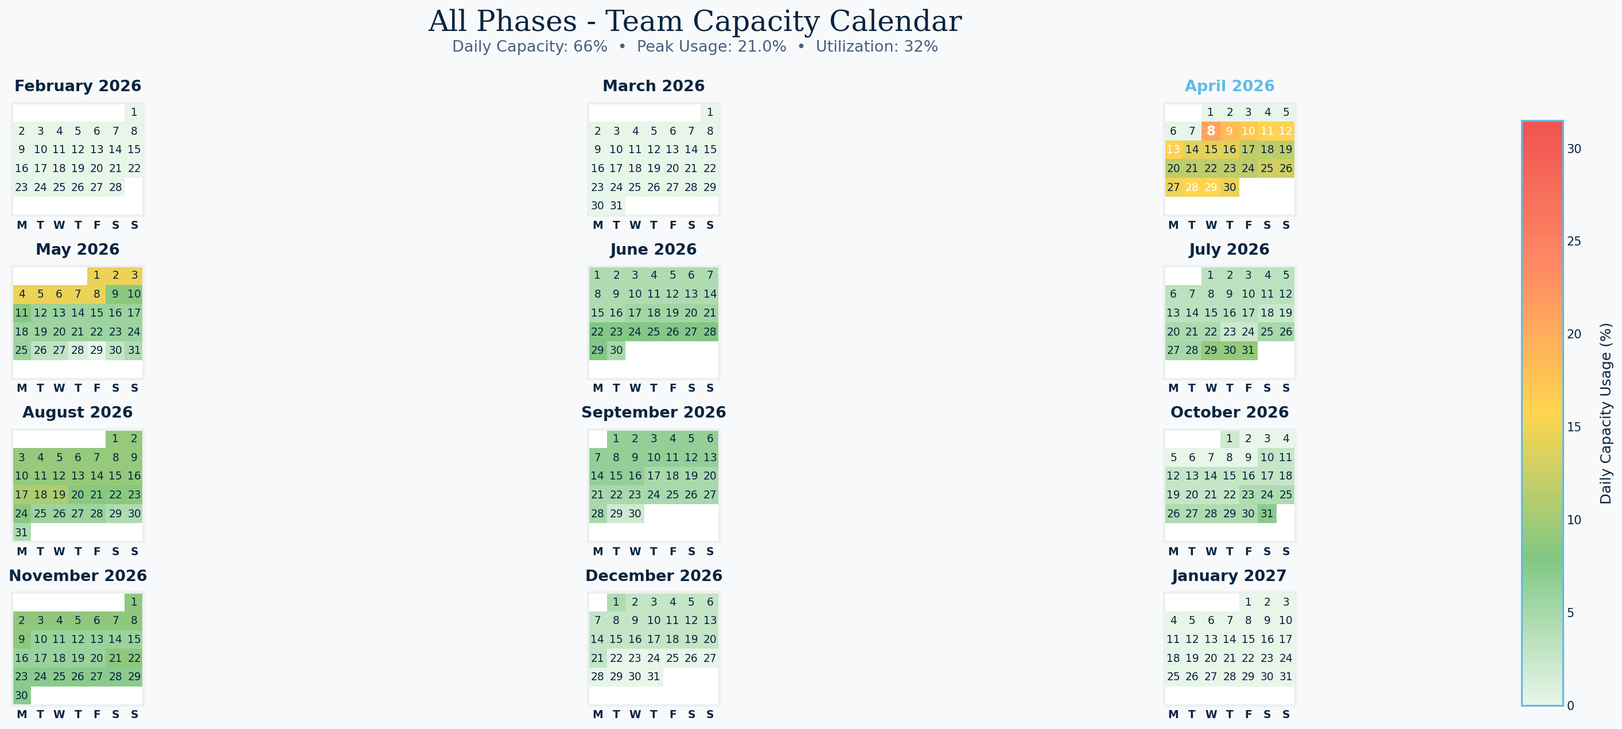
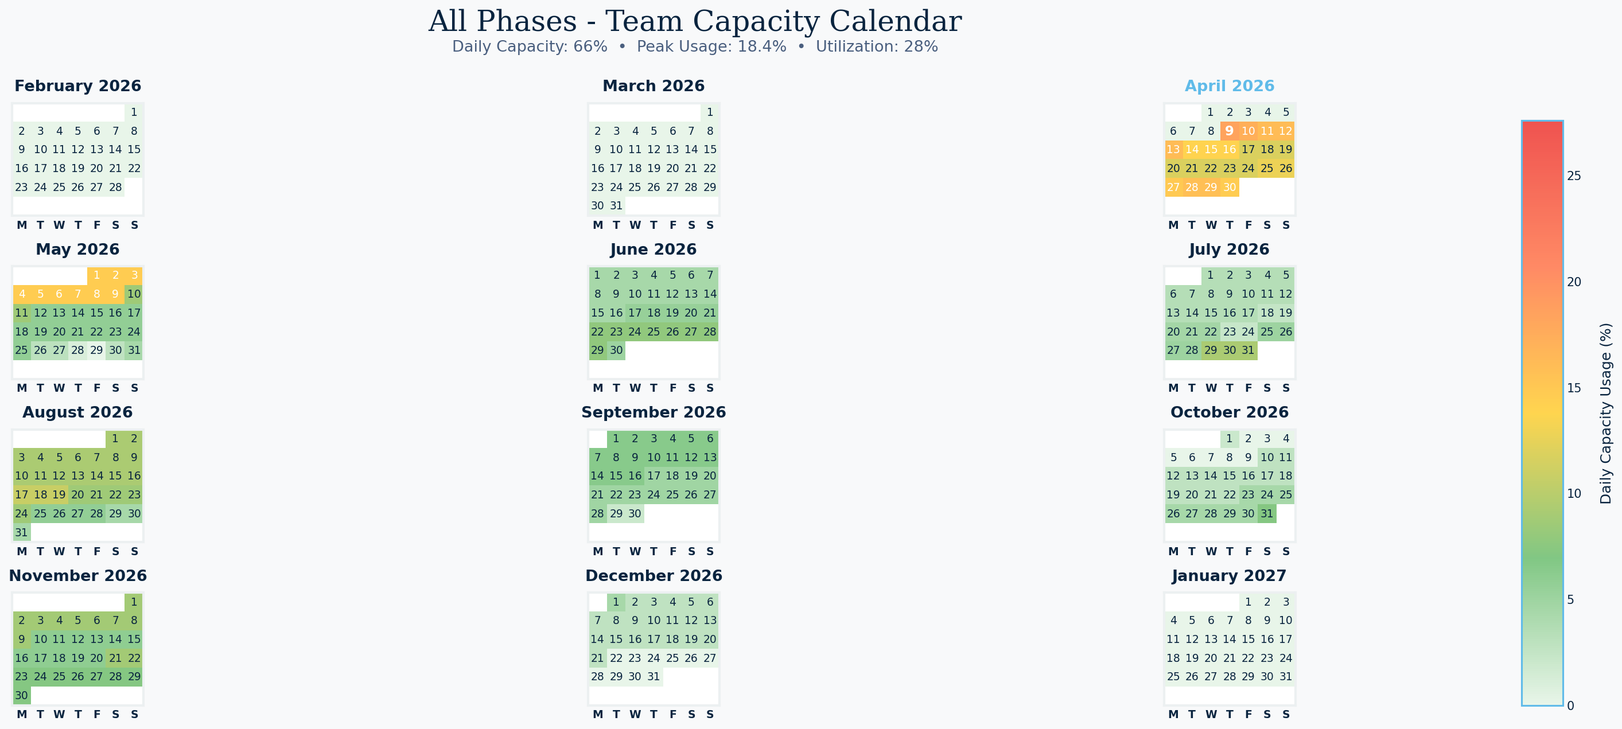
Update dashboard with latest data
🤖 Generated with [Claude Code](https://claude.com/claude-code)

Changed region(s): [[0.716, 0.1534, 0.8093, 0.2455], [0.0, 0.6444, 0.0623, 0.7057], [0.0623, 0.3682, 0.0934, 0.4296]]

diff --git a/Reports/capacity_dashboard.html b/Reports/capacity_dashboard.html
@@ -2449,7 +2449,7 @@
                 <div class="header-text">
                     <h1 id="dashboard-title">Perimeter Studio Dashboard</h1>
                     <p class="subtitle">Video Production Capacity Tracking & Performance Metrics</p>
-                    <p class="timestamp" aria-live="polite" aria-label="Dashboard last updated">Last Updated: April 08, 2026 at 11:45 PM</p>
+                    <p class="timestamp" aria-live="polite" aria-label="Dashboard last updated">Last Updated: April 09, 2026 at 12:00 AM</p>
                 </div>
                 <button class="theme-toggle" onclick="toggleTheme()" aria-label="Toggle dark/light mode" aria-describedby="theme-description">
                     <span id="themeText">Dark Mode</span>
@@ -2591,7 +2591,7 @@
                         Post Production | Adriel Abella | Due: 2026-04-06
                     </div>
                     <div class="task-risk">
-                        • Overdue by 2 days
+                        • Overdue by 3 days
                     </div>
                 </div>
             
@@ -2601,7 +2601,7 @@
                         Post Production | Adriel Abella | Due: 2026-04-08
                     </div>
                     <div class="task-risk">
-                        • Due in 0 days, not yet in progress
+                        • Overdue by 1 days
                     </div>
                 </div>
             
@@ -2611,7 +2611,7 @@
                         Post Production | Zach Welliver | Due: 2026-04-03
                     </div>
                     <div class="task-risk">
-                        • Overdue by 5 days
+                        • Overdue by 6 days
                     </div>
                 </div>
             
@@ -3054,115 +3054,117 @@
                 
                     <div style="flex: 4; text-align: center; border-right: 1px solid #dee2e6;">Aug</div>
                 
-                    <div style="flex: 5; text-align: center;">Sep</div>
+                    <div style="flex: 4; text-align: center; border-right: 1px solid #dee2e6;">Sep</div>
+                
+                    <div style="flex: 1; text-align: center;">Oct</div>
         
                 </div>
 
                 <!-- Timeline bars -->
                 <div style="display: flex; gap: 3px; height: 60px; align-items: flex-end;">
     
-                    <div style="flex: 1; background: #fd7e14; height: 33.37229437229437%; border-radius: 4px 4px 0 0; position: relative; min-width: 8px; cursor: pointer;"
-                         title="Week 1 (2026-04-08): 26% capacity, 16 tasks">
+                    <div style="flex: 1; background: #fd7e14; height: 31.402597402597404%; border-radius: 4px 4px 0 0; position: relative; min-width: 8px; cursor: pointer;"
+                         title="Week 1 (2026-04-09): 24% capacity, 15 tasks">
                     </div>
         
-                    <div style="flex: 1; background: #ffc107; height: 24.480519480519483%; border-radius: 4px 4px 0 0; position: relative; min-width: 8px; cursor: pointer;"
-                         title="Week 2 (2026-04-15): 19% capacity, 11 tasks">
+                    <div style="flex: 1; background: #ffc107; height: 23.861471861471866%; border-radius: 4px 4px 0 0; position: relative; min-width: 8px; cursor: pointer;"
+                         title="Week 2 (2026-04-16): 18% capacity, 11 tasks">
                     </div>
         
-                    <div style="flex: 1; background: #ffc107; height: 25.774891774891774%; border-radius: 4px 4px 0 0; position: relative; min-width: 8px; cursor: pointer;"
-                         title="Week 3 (2026-04-22): 20% capacity, 12 tasks">
+                    <div style="flex: 1; background: #ffc107; height: 26.9004329004329%; border-radius: 4px 4px 0 0; position: relative; min-width: 8px; cursor: pointer;"
+                         title="Week 3 (2026-04-23): 21% capacity, 12 tasks">
                     </div>
         
-                    <div style="flex: 1; background: #ffc107; height: 29.095238095238095%; border-radius: 4px 4px 0 0; position: relative; min-width: 8px; cursor: pointer;"
-                         title="Week 4 (2026-04-29): 22% capacity, 11 tasks">
+                    <div style="flex: 1; background: #fd7e14; height: 28.757575757575758%; border-radius: 4px 4px 0 0; position: relative; min-width: 8px; cursor: pointer;"
+                         title="Week 4 (2026-04-30): 22% capacity, 10 tasks">
                     </div>
         
-                    <div style="flex: 1; background: #ffc107; height: 21.21645021645022%; border-radius: 4px 4px 0 0; position: relative; min-width: 8px; cursor: pointer;"
-                         title="Week 5 (2026-05-06): 16% capacity, 10 tasks">
+                    <div style="flex: 1; background: #ffc107; height: 20.428571428571427%; border-radius: 4px 4px 0 0; position: relative; min-width: 8px; cursor: pointer;"
+                         title="Week 5 (2026-05-07): 16% capacity, 10 tasks">
                     </div>
         
                     <div style="flex: 1; background: #28a745; height: 11.424242424242426%; border-radius: 4px 4px 0 0; position: relative; min-width: 8px; cursor: pointer;"
-                         title="Week 6 (2026-05-13): 9% capacity, 3 tasks">
+                         title="Week 6 (2026-05-14): 9% capacity, 3 tasks">
                     </div>
         
-                    <div style="flex: 1; background: #28a745; height: 10.636363636363638%; border-radius: 4px 4px 0 0; position: relative; min-width: 8px; cursor: pointer;"
-                         title="Week 7 (2026-05-20): 8% capacity, 3 tasks">
+                    <div style="flex: 1; background: #28a745; height: 9.848484848484851%; border-radius: 4px 4px 0 0; position: relative; min-width: 8px; cursor: pointer;"
+                         title="Week 7 (2026-05-21): 8% capacity, 3 tasks">
                     </div>
         
-                    <div style="flex: 1; background: #28a745; height: 5.627705627705628%; border-radius: 4px 4px 0 0; position: relative; min-width: 8px; cursor: pointer;"
-                         title="Week 8 (2026-05-27): 4% capacity, 4 tasks">
-                    </div>
-        
-                    <div style="flex: 1; background: #28a745; height: 8.666666666666668%; border-radius: 4px 4px 0 0; position: relative; min-width: 8px; cursor: pointer;"
-                         title="Week 9 (2026-06-03): 7% capacity, 2 tasks">
+                    <div style="flex: 1; background: #28a745; height: 6.021645021645023%; border-radius: 4px 4px 0 0; position: relative; min-width: 8px; cursor: pointer;"
+                         title="Week 8 (2026-05-28): 5% capacity, 3 tasks">
                     </div>
         
                     <div style="flex: 1; background: #28a745; height: 8.666666666666668%; border-radius: 4px 4px 0 0; position: relative; min-width: 8px; cursor: pointer;"
-                         title="Week 10 (2026-06-10): 7% capacity, 2 tasks">
+                         title="Week 9 (2026-06-04): 7% capacity, 2 tasks">
                     </div>
         
-                    <div style="flex: 1; background: #28a745; height: 11.987012987012987%; border-radius: 4px 4px 0 0; position: relative; min-width: 8px; cursor: pointer;"
-                         title="Week 11 (2026-06-17): 9% capacity, 4 tasks">
+                    <div style="flex: 1; background: #28a745; height: 8.94805194805195%; border-radius: 4px 4px 0 0; position: relative; min-width: 8px; cursor: pointer;"
+                         title="Week 10 (2026-06-11): 7% capacity, 3 tasks">
                     </div>
         
-                    <div style="flex: 1; background: #28a745; height: 14.57575757575758%; border-radius: 4px 4px 0 0; position: relative; min-width: 8px; cursor: pointer;"
-                         title="Week 12 (2026-06-24): 11% capacity, 4 tasks">
+                    <div style="flex: 1; background: #28a745; height: 12.662337662337665%; border-radius: 4px 4px 0 0; position: relative; min-width: 8px; cursor: pointer;"
+                         title="Week 11 (2026-06-18): 10% capacity, 4 tasks">
+                    </div>
+        
+                    <div style="flex: 1; background: #28a745; height: 13.337662337662339%; border-radius: 4px 4px 0 0; position: relative; min-width: 8px; cursor: pointer;"
+                         title="Week 12 (2026-06-25): 10% capacity, 4 tasks">
                     </div>
         
                     <div style="flex: 1; background: #28a745; height: 6.696969696969697%; border-radius: 4px 4px 0 0; position: relative; min-width: 8px; cursor: pointer;"
-                         title="Week 13 (2026-07-01): 5% capacity, 2 tasks">
+                         title="Week 13 (2026-07-02): 5% capacity, 2 tasks">
                     </div>
         
                     <div style="flex: 1; background: #28a745; height: 6.696969696969697%; border-radius: 4px 4px 0 0; position: relative; min-width: 8px; cursor: pointer;"
-                         title="Week 14 (2026-07-08): 5% capacity, 2 tasks">
+                         title="Week 14 (2026-07-09): 5% capacity, 2 tasks">
                     </div>
         
-                    <div style="flex: 1; background: #28a745; height: 6.80952380952381%; border-radius: 4px 4px 0 0; position: relative; min-width: 8px; cursor: pointer;"
-                         title="Week 15 (2026-07-15): 5% capacity, 3 tasks">
+                    <div style="flex: 1; background: #28a745; height: 7.147186147186147%; border-radius: 4px 4px 0 0; position: relative; min-width: 8px; cursor: pointer;"
+                         title="Week 15 (2026-07-16): 5% capacity, 3 tasks">
                     </div>
         
-                    <div style="flex: 1; background: #28a745; height: 8.16017316017316%; border-radius: 4px 4px 0 0; position: relative; min-width: 8px; cursor: pointer;"
-                         title="Week 16 (2026-07-22): 6% capacity, 3 tasks">
-                    </div>
-        
-                    <div style="flex: 1; background: #ffc107; height: 18.121212121212125%; border-radius: 4px 4px 0 0; position: relative; min-width: 8px; cursor: pointer;"
-                         title="Week 17 (2026-07-29): 14% capacity, 3 tasks">
+                    <div style="flex: 1; background: #28a745; height: 9.454545454545455%; border-radius: 4px 4px 0 0; position: relative; min-width: 8px; cursor: pointer;"
+                         title="Week 16 (2026-07-23): 7% capacity, 3 tasks">
                     </div>
         
                     <div style="flex: 1; background: #ffc107; height: 18.121212121212125%; border-radius: 4px 4px 0 0; position: relative; min-width: 8px; cursor: pointer;"
-                         title="Week 18 (2026-08-05): 14% capacity, 3 tasks">
+                         title="Week 17 (2026-07-30): 14% capacity, 3 tasks">
                     </div>
         
-                    <div style="flex: 1; background: #ffc107; height: 19.021645021645025%; border-radius: 4px 4px 0 0; position: relative; min-width: 8px; cursor: pointer;"
-                         title="Week 19 (2026-08-12): 15% capacity, 4 tasks">
+                    <div style="flex: 1; background: #ffc107; height: 18.121212121212125%; border-radius: 4px 4px 0 0; position: relative; min-width: 8px; cursor: pointer;"
+                         title="Week 18 (2026-08-06): 14% capacity, 3 tasks">
                     </div>
         
-                    <div style="flex: 1; background: #28a745; height: 16.770562770562773%; border-radius: 4px 4px 0 0; position: relative; min-width: 8px; cursor: pointer;"
-                         title="Week 20 (2026-08-19): 13% capacity, 4 tasks">
+                    <div style="flex: 1; background: #ffc107; height: 19.471861471861477%; border-radius: 4px 4px 0 0; position: relative; min-width: 8px; cursor: pointer;"
+                         title="Week 19 (2026-08-13): 15% capacity, 4 tasks">
                     </div>
         
-                    <div style="flex: 1; background: #28a745; height: 10.41125541125541%; border-radius: 4px 4px 0 0; position: relative; min-width: 8px; cursor: pointer;"
-                         title="Week 21 (2026-08-26): 8% capacity, 4 tasks">
+                    <div style="flex: 1; background: #28a745; height: 15.363636363636369%; border-radius: 4px 4px 0 0; position: relative; min-width: 8px; cursor: pointer;"
+                         title="Week 20 (2026-08-20): 12% capacity, 3 tasks">
+                    </div>
+        
+                    <div style="flex: 1; background: #28a745; height: 10.580086580086581%; border-radius: 4px 4px 0 0; position: relative; min-width: 8px; cursor: pointer;"
+                         title="Week 21 (2026-08-27): 8% capacity, 4 tasks">
                     </div>
         
                     <div style="flex: 1; background: #28a745; height: 12.606060606060607%; border-radius: 4px 4px 0 0; position: relative; min-width: 8px; cursor: pointer;"
-                         title="Week 22 (2026-09-02): 10% capacity, 3 tasks">
+                         title="Week 22 (2026-09-03): 10% capacity, 3 tasks">
                     </div>
         
                     <div style="flex: 1; background: #28a745; height: 12.606060606060607%; border-radius: 4px 4px 0 0; position: relative; min-width: 8px; cursor: pointer;"
-                         title="Week 23 (2026-09-09): 10% capacity, 3 tasks">
+                         title="Week 23 (2026-09-10): 10% capacity, 3 tasks">
                     </div>
         
-                    <div style="flex: 1; background: #28a745; height: 9.904761904761905%; border-radius: 4px 4px 0 0; position: relative; min-width: 8px; cursor: pointer;"
-                         title="Week 24 (2026-09-16): 8% capacity, 3 tasks">
+                    <div style="flex: 1; background: #28a745; height: 9.454545454545455%; border-radius: 4px 4px 0 0; position: relative; min-width: 8px; cursor: pointer;"
+                         title="Week 24 (2026-09-17): 7% capacity, 2 tasks">
                     </div>
         
-                    <div style="flex: 1; background: #28a745; height: 8.666666666666668%; border-radius: 4px 4px 0 0; position: relative; min-width: 8px; cursor: pointer;"
-                         title="Week 25 (2026-09-23): 7% capacity, 2 tasks">
+                    <div style="flex: 1; background: #28a745; height: 7.87878787878788%; border-radius: 4px 4px 0 0; position: relative; min-width: 8px; cursor: pointer;"
+                         title="Week 25 (2026-09-24): 6% capacity, 2 tasks">
                     </div>
         
                     <div style="flex: 1; background: #28a745; height: 5%; border-radius: 4px 4px 0 0; position: relative; min-width: 8px; cursor: pointer;"
-                         title="Week 26 (2026-09-30): 1% capacity, 1 tasks">
+                         title="Week 26 (2026-10-01): 0% capacity, 1 tasks">
                     </div>
         
                 </div>
@@ -3245,17 +3247,12 @@
             </div>
             <div class="heatmap-grid">
     
-                <div style="background: #fd7e14; color: white; padding: 8px; border-radius: 4px; text-align: center; font-size: 11px;" title="2026-04-08: 31.8% capacity">
-                    <div style="font-weight: bold;">04/08</div>
-                    <div style="font-size: 9px; margin-top: 2px;">32%</div>
-                </div>
-        
-                <div style="background: #ffc107; color: white; padding: 8px; border-radius: 4px; text-align: center; font-size: 11px;" title="2026-04-09: 27.9% capacity">
+                <div style="background: #fd7e14; color: white; padding: 8px; border-radius: 4px; text-align: center; font-size: 11px;" title="2026-04-09: 27.9% capacity">
                     <div style="font-weight: bold;">04/09</div>
                     <div style="font-size: 9px; margin-top: 2px;">28%</div>
                 </div>
         
-                <div style="background: #ffc107; color: white; padding: 8px; border-radius: 4px; text-align: center; font-size: 11px;" title="2026-04-10: 26.1% capacity">
+                <div style="background: #fd7e14; color: white; padding: 8px; border-radius: 4px; text-align: center; font-size: 11px;" title="2026-04-10: 26.1% capacity">
                     <div style="font-weight: bold;">04/10</div>
                     <div style="font-size: 9px; margin-top: 2px;">26%</div>
                 </div>
@@ -3392,6 +3389,11 @@
         
                 <div style="background: #ffc107; color: white; padding: 8px; border-radius: 4px; text-align: center; font-size: 11px;" title="2026-05-07: 22.1% capacity">
                     <div style="font-weight: bold;">05/07</div>
+                    <div style="font-size: 9px; margin-top: 2px;">22%</div>
+                </div>
+        
+                <div style="background: #ffc107; color: white; padding: 8px; border-radius: 4px; text-align: center; font-size: 11px;" title="2026-05-08: 22.1% capacity">
+                    <div style="font-weight: bold;">05/08</div>
                     <div style="font-size: 9px; margin-top: 2px;">22%</div>
                 </div>
         
@@ -4352,7 +4354,7 @@ Dec 1...
                 const historyCtx = chartElement.getContext('2d');
                 console.log('Canvas context obtained:', !!historyCtx);
 
-                const capacityHistoryByMember = {"Zach Welliver": [{"date": "2026-03-09", "utilization_percent": 101.0}, {"date": "2026-03-10", "utilization_percent": 101.0}, {"date": "2026-03-11", "utilization_percent": 93.0}, {"date": "2026-03-12", "utilization_percent": 80.0}, {"date": "2026-03-13", "utilization_percent": 80.0}, {"date": "2026-03-14", "utilization_percent": 80.0}, {"date": "2026-03-15", "utilization_percent": 80.0}, {"date": "2026-03-16", "utilization_percent": 68.0}, {"date": "2026-03-17", "utilization_percent": 77.0}, {"date": "2026-03-18", "utilization_percent": 57.0}, {"date": "2026-03-19", "utilization_percent": 57.0}, {"date": "2026-03-20", "utilization_percent": 57.0}, {"date": "2026-03-21", "utilization_percent": 57.0}, {"date": "2026-03-22", "utilization_percent": 57.0}, {"date": "2026-03-23", "utilization_percent": 57.0}, {"date": "2026-03-24", "utilization_percent": 57.0}, {"date": "2026-03-25", "utilization_percent": 57.0}, {"date": "2026-03-26", "utilization_percent": 57.0}, {"date": "2026-03-27", "utilization_percent": 57.0}, {"date": "2026-03-28", "utilization_percent": 57.0}, {"date": "2026-03-29", "utilization_percent": 57.0}, {"date": "2026-03-30", "utilization_percent": 57.0}, {"date": "2026-03-31", "utilization_percent": 57.0}, {"date": "2026-04-01", "utilization_percent": 72.0}, {"date": "2026-04-02", "utilization_percent": 72.0}, {"date": "2026-04-03", "utilization_percent": 72.0}, {"date": "2026-04-04", "utilization_percent": 72.0}, {"date": "2026-04-05", "utilization_percent": 72.0}, {"date": "2026-04-06", "utilization_percent": 72.0}, {"date": "2026-04-07", "utilization_percent": 57.0}], "Nick Clark": [{"date": "2026-03-09", "utilization_percent": 66.0}, {"date": "2026-03-10", "utilization_percent": 54.0}, {"date": "2026-03-11", "utilization_percent": 43.0}, {"date": "2026-03-12", "utilization_percent": 28.0}, {"date": "2026-03-13", "utilization_percent": 34.0}, {"date": "2026-03-14", "utilization_percent": 34.0}, {"date": "2026-03-15", "utilization_percent": 34.0}, {"date": "2026-03-16", "utilization_percent": 38.0}, {"date": "2026-03-17", "utilization_percent": 28.0}, {"date": "2026-03-18", "utilization_percent": 22.0}, {"date": "2026-03-19", "utilization_percent": 22.0}, {"date": "2026-03-20", "utilization_percent": 28.0}, {"date": "2026-03-21", "utilization_percent": 28.0}, {"date": "2026-03-22", "utilization_percent": 28.0}, {"date": "2026-03-23", "utilization_percent": 17.0}, {"date": "2026-03-24", "utilization_percent": 17.0}, {"date": "2026-03-25", "utilization_percent": 11.0}, {"date": "2026-03-26", "utilization_percent": 11.0}, {"date": "2026-03-27", "utilization_percent": 17.0}, {"date": "2026-03-28", "utilization_percent": 17.0}, {"date": "2026-03-29", "utilization_percent": 17.0}, {"date": "2026-03-30", "utilization_percent": 17.0}, {"date": "2026-03-31", "utilization_percent": 11.0}, {"date": "2026-04-01", "utilization_percent": 29.0}, {"date": "2026-04-02", "utilization_percent": 47.0}, {"date": "2026-04-03", "utilization_percent": 57.0}, {"date": "2026-04-04", "utilization_percent": 57.0}, {"date": "2026-04-05", "utilization_percent": 57.0}, {"date": "2026-04-06", "utilization_percent": 57.0}, {"date": "2026-04-07", "utilization_percent": 38.0}], "Adriel Abella": [{"date": "2026-03-09", "utilization_percent": 203.0}, {"date": "2026-03-10", "utilization_percent": 198.0}, {"date": "2026-03-11", "utilization_percent": 217.0}, {"date": "2026-03-12", "utilization_percent": 234.0}, {"date": "2026-03-13", "utilization_percent": 234.0}, {"date": "2026-03-14", "utilization_percent": 234.0}, {"date": "2026-03-15", "utilization_percent": 234.0}, {"date": "2026-03-16", "utilization_percent": 241.0}, {"date": "2026-03-17", "utilization_percent": 241.0}, {"date": "2026-03-18", "utilization_percent": 250.0}, {"date": "2026-03-19", "utilization_percent": 183.0}, {"date": "2026-03-20", "utilization_percent": 183.0}, {"date": "2026-03-21", "utilization_percent": 183.0}, {"date": "2026-03-22", "utilization_percent": 183.0}, {"date": "2026-03-23", "utilization_percent": 183.0}, {"date": "2026-03-24", "utilization_percent": 183.0}, {"date": "2026-03-25", "utilization_percent": 189.0}, {"date": "2026-03-26", "utilization_percent": 164.0}, {"date": "2026-03-27", "utilization_percent": 164.0}, {"date": "2026-03-28", "utilization_percent": 164.0}, {"date": "2026-03-29", "utilization_percent": 164.0}, {"date": "2026-03-30", "utilization_percent": 164.0}, {"date": "2026-03-31", "utilization_percent": 110.0}, {"date": "2026-04-01", "utilization_percent": 110.0}, {"date": "2026-04-02", "utilization_percent": 110.0}, {"date": "2026-04-03", "utilization_percent": 110.0}, {"date": "2026-04-04", "utilization_percent": 110.0}, {"date": "2026-04-05", "utilization_percent": 110.0}, {"date": "2026-04-06", "utilization_percent": 110.0}, {"date": "2026-04-07", "utilization_percent": 58.0}], "John Meyer": [{"date": "2026-03-09", "utilization_percent": 133.3}, {"date": "2026-03-10", "utilization_percent": 170.0}, {"date": "2026-03-11", "utilization_percent": 170.0}, {"date": "2026-03-12", "utilization_percent": 166.7}, {"date": "2026-03-13", "utilization_percent": 166.7}, {"date": "2026-03-14", "utilization_percent": 166.7}, {"date": "2026-03-15", "utilization_percent": 166.7}, {"date": "2026-03-16", "utilization_percent": 183.3}, {"date": "2026-03-17", "utilization_percent": 216.7}, {"date": "2026-03-18", "utilization_percent": 216.7}, {"date": "2026-03-19", "utilization_percent": 216.7}, {"date": "2026-03-20", "utilization_percent": 216.7}, {"date": "2026-03-21", "utilization_percent": 216.7}, {"date": "2026-03-22", "utilization_percent": 216.7}, {"date": "2026-03-23", "utilization_percent": 183.3}, {"date": "2026-03-24", "utilization_percent": 183.3}, {"date": "2026-03-25", "utilization_percent": 183.3}, {"date": "2026-03-26", "utilization_percent": 43.3}, {"date": "2026-03-27", "utilization_percent": 43.3}, {"date": "2026-03-28", "utilization_percent": 43.3}, {"date": "2026-03-29", "utilization_percent": 43.3}, {"date": "2026-03-30", "utilization_percent": 43.3}, {"date": "2026-03-31", "utilization_percent": 43.3}, {"date": "2026-04-01", "utilization_percent": 43.3}, {"date": "2026-04-02", "utilization_percent": 43.3}, {"date": "2026-04-03", "utilization_percent": 43.3}, {"date": "2026-04-04", "utilization_percent": 43.3}, {"date": "2026-04-05", "utilization_percent": 43.3}, {"date": "2026-04-06", "utilization_percent": 43.3}, {"date": "2026-04-07", "utilization_percent": 0.0}], "Team Total": [{"date": "2026-03-09", "utilization_percent": 124.2}, {"date": "2026-03-10", "utilization_percent": 122.4}, {"date": "2026-03-11", "utilization_percent": 122.4}, {"date": "2026-03-12", "utilization_percent": 118.8}, {"date": "2026-03-13", "utilization_percent": 120.6}, {"date": "2026-03-14", "utilization_percent": 120.6}, {"date": "2026-03-15", "utilization_percent": 120.6}, {"date": "2026-03-16", "utilization_percent": 121.8}, {"date": "2026-03-17", "utilization_percent": 124.5}, {"date": "2026-03-18", "utilization_percent": 119.4}, {"date": "2026-03-19", "utilization_percent": 99.1}, {"date": "2026-03-20", "utilization_percent": 100.9}, {"date": "2026-03-21", "utilization_percent": 100.9}, {"date": "2026-03-22", "utilization_percent": 100.9}, {"date": "2026-03-23", "utilization_percent": 94.5}, {"date": "2026-03-24", "utilization_percent": 94.5}, {"date": "2026-03-25", "utilization_percent": 94.5}, {"date": "2026-03-26", "utilization_percent": 74.2}, {"date": "2026-03-27", "utilization_percent": 76.1}, {"date": "2026-03-28", "utilization_percent": 76.1}, {"date": "2026-03-29", "utilization_percent": 76.1}, {"date": "2026-03-30", "utilization_percent": 76.1}, {"date": "2026-03-31", "utilization_percent": 57.9}, {"date": "2026-04-01", "utilization_percent": 67.9}, {"date": "2026-04-02", "utilization_percent": 73.3}, {"date": "2026-04-03", "utilization_percent": 76.4}, {"date": "2026-04-04", "utilization_percent": 76.4}, {"date": "2026-04-05", "utilization_percent": 76.4}, {"date": "2026-04-06", "utilization_percent": 76.4}, {"date": "2026-04-07", "utilization_percent": 46.4}]};
+                const capacityHistoryByMember = {"Zach Welliver": [{"date": "2026-03-10", "utilization_percent": 101.0}, {"date": "2026-03-11", "utilization_percent": 93.0}, {"date": "2026-03-12", "utilization_percent": 80.0}, {"date": "2026-03-13", "utilization_percent": 80.0}, {"date": "2026-03-14", "utilization_percent": 80.0}, {"date": "2026-03-15", "utilization_percent": 80.0}, {"date": "2026-03-16", "utilization_percent": 68.0}, {"date": "2026-03-17", "utilization_percent": 77.0}, {"date": "2026-03-18", "utilization_percent": 57.0}, {"date": "2026-03-19", "utilization_percent": 57.0}, {"date": "2026-03-20", "utilization_percent": 57.0}, {"date": "2026-03-21", "utilization_percent": 57.0}, {"date": "2026-03-22", "utilization_percent": 57.0}, {"date": "2026-03-23", "utilization_percent": 57.0}, {"date": "2026-03-24", "utilization_percent": 57.0}, {"date": "2026-03-25", "utilization_percent": 57.0}, {"date": "2026-03-26", "utilization_percent": 57.0}, {"date": "2026-03-27", "utilization_percent": 57.0}, {"date": "2026-03-28", "utilization_percent": 57.0}, {"date": "2026-03-29", "utilization_percent": 57.0}, {"date": "2026-03-30", "utilization_percent": 57.0}, {"date": "2026-03-31", "utilization_percent": 57.0}, {"date": "2026-04-01", "utilization_percent": 72.0}, {"date": "2026-04-02", "utilization_percent": 72.0}, {"date": "2026-04-03", "utilization_percent": 72.0}, {"date": "2026-04-04", "utilization_percent": 72.0}, {"date": "2026-04-05", "utilization_percent": 72.0}, {"date": "2026-04-06", "utilization_percent": 72.0}, {"date": "2026-04-07", "utilization_percent": 57.0}, {"date": "2026-04-08", "utilization_percent": 66.0}], "Nick Clark": [{"date": "2026-03-10", "utilization_percent": 54.0}, {"date": "2026-03-11", "utilization_percent": 43.0}, {"date": "2026-03-12", "utilization_percent": 28.0}, {"date": "2026-03-13", "utilization_percent": 34.0}, {"date": "2026-03-14", "utilization_percent": 34.0}, {"date": "2026-03-15", "utilization_percent": 34.0}, {"date": "2026-03-16", "utilization_percent": 38.0}, {"date": "2026-03-17", "utilization_percent": 28.0}, {"date": "2026-03-18", "utilization_percent": 22.0}, {"date": "2026-03-19", "utilization_percent": 22.0}, {"date": "2026-03-20", "utilization_percent": 28.0}, {"date": "2026-03-21", "utilization_percent": 28.0}, {"date": "2026-03-22", "utilization_percent": 28.0}, {"date": "2026-03-23", "utilization_percent": 17.0}, {"date": "2026-03-24", "utilization_percent": 17.0}, {"date": "2026-03-25", "utilization_percent": 11.0}, {"date": "2026-03-26", "utilization_percent": 11.0}, {"date": "2026-03-27", "utilization_percent": 17.0}, {"date": "2026-03-28", "utilization_percent": 17.0}, {"date": "2026-03-29", "utilization_percent": 17.0}, {"date": "2026-03-30", "utilization_percent": 17.0}, {"date": "2026-03-31", "utilization_percent": 11.0}, {"date": "2026-04-01", "utilization_percent": 29.0}, {"date": "2026-04-02", "utilization_percent": 47.0}, {"date": "2026-04-03", "utilization_percent": 57.0}, {"date": "2026-04-04", "utilization_percent": 57.0}, {"date": "2026-04-05", "utilization_percent": 57.0}, {"date": "2026-04-06", "utilization_percent": 57.0}, {"date": "2026-04-07", "utilization_percent": 38.0}, {"date": "2026-04-08", "utilization_percent": 32.0}], "Adriel Abella": [{"date": "2026-03-10", "utilization_percent": 198.0}, {"date": "2026-03-11", "utilization_percent": 217.0}, {"date": "2026-03-12", "utilization_percent": 234.0}, {"date": "2026-03-13", "utilization_percent": 234.0}, {"date": "2026-03-14", "utilization_percent": 234.0}, {"date": "2026-03-15", "utilization_percent": 234.0}, {"date": "2026-03-16", "utilization_percent": 241.0}, {"date": "2026-03-17", "utilization_percent": 241.0}, {"date": "2026-03-18", "utilization_percent": 250.0}, {"date": "2026-03-19", "utilization_percent": 183.0}, {"date": "2026-03-20", "utilization_percent": 183.0}, {"date": "2026-03-21", "utilization_percent": 183.0}, {"date": "2026-03-22", "utilization_percent": 183.0}, {"date": "2026-03-23", "utilization_percent": 183.0}, {"date": "2026-03-24", "utilization_percent": 183.0}, {"date": "2026-03-25", "utilization_percent": 189.0}, {"date": "2026-03-26", "utilization_percent": 164.0}, {"date": "2026-03-27", "utilization_percent": 164.0}, {"date": "2026-03-28", "utilization_percent": 164.0}, {"date": "2026-03-29", "utilization_percent": 164.0}, {"date": "2026-03-30", "utilization_percent": 164.0}, {"date": "2026-03-31", "utilization_percent": 110.0}, {"date": "2026-04-01", "utilization_percent": 110.0}, {"date": "2026-04-02", "utilization_percent": 110.0}, {"date": "2026-04-03", "utilization_percent": 110.0}, {"date": "2026-04-04", "utilization_percent": 110.0}, {"date": "2026-04-05", "utilization_percent": 110.0}, {"date": "2026-04-06", "utilization_percent": 110.0}, {"date": "2026-04-07", "utilization_percent": 58.0}, {"date": "2026-04-08", "utilization_percent": 45.0}], "John Meyer": [{"date": "2026-03-10", "utilization_percent": 170.0}, {"date": "2026-03-11", "utilization_percent": 170.0}, {"date": "2026-03-12", "utilization_percent": 166.7}, {"date": "2026-03-13", "utilization_percent": 166.7}, {"date": "2026-03-14", "utilization_percent": 166.7}, {"date": "2026-03-15", "utilization_percent": 166.7}, {"date": "2026-03-16", "utilization_percent": 183.3}, {"date": "2026-03-17", "utilization_percent": 216.7}, {"date": "2026-03-18", "utilization_percent": 216.7}, {"date": "2026-03-19", "utilization_percent": 216.7}, {"date": "2026-03-20", "utilization_percent": 216.7}, {"date": "2026-03-21", "utilization_percent": 216.7}, {"date": "2026-03-22", "utilization_percent": 216.7}, {"date": "2026-03-23", "utilization_percent": 183.3}, {"date": "2026-03-24", "utilization_percent": 183.3}, {"date": "2026-03-25", "utilization_percent": 183.3}, {"date": "2026-03-26", "utilization_percent": 43.3}, {"date": "2026-03-27", "utilization_percent": 43.3}, {"date": "2026-03-28", "utilization_percent": 43.3}, {"date": "2026-03-29", "utilization_percent": 43.3}, {"date": "2026-03-30", "utilization_percent": 43.3}, {"date": "2026-03-31", "utilization_percent": 43.3}, {"date": "2026-04-01", "utilization_percent": 43.3}, {"date": "2026-04-02", "utilization_percent": 43.3}, {"date": "2026-04-03", "utilization_percent": 43.3}, {"date": "2026-04-04", "utilization_percent": 43.3}, {"date": "2026-04-05", "utilization_percent": 43.3}, {"date": "2026-04-06", "utilization_percent": 43.3}, {"date": "2026-04-07", "utilization_percent": 0.0}, {"date": "2026-04-08", "utilization_percent": 0.0}], "Team Total": [{"date": "2026-03-10", "utilization_percent": 122.4}, {"date": "2026-03-11", "utilization_percent": 122.4}, {"date": "2026-03-12", "utilization_percent": 118.8}, {"date": "2026-03-13", "utilization_percent": 120.6}, {"date": "2026-03-14", "utilization_percent": 120.6}, {"date": "2026-03-15", "utilization_percent": 120.6}, {"date": "2026-03-16", "utilization_percent": 121.8}, {"date": "2026-03-17", "utilization_percent": 124.5}, {"date": "2026-03-18", "utilization_percent": 119.4}, {"date": "2026-03-19", "utilization_percent": 99.1}, {"date": "2026-03-20", "utilization_percent": 100.9}, {"date": "2026-03-21", "utilization_percent": 100.9}, {"date": "2026-03-22", "utilization_percent": 100.9}, {"date": "2026-03-23", "utilization_percent": 94.5}, {"date": "2026-03-24", "utilization_percent": 94.5}, {"date": "2026-03-25", "utilization_percent": 94.5}, {"date": "2026-03-26", "utilization_percent": 74.2}, {"date": "2026-03-27", "utilization_percent": 76.1}, {"date": "2026-03-28", "utilization_percent": 76.1}, {"date": "2026-03-29", "utilization_percent": 76.1}, {"date": "2026-03-30", "utilization_percent": 76.1}, {"date": "2026-03-31", "utilization_percent": 57.9}, {"date": "2026-04-01", "utilization_percent": 67.9}, {"date": "2026-04-02", "utilization_percent": 73.3}, {"date": "2026-04-03", "utilization_percent": 76.4}, {"date": "2026-04-04", "utilization_percent": 76.4}, {"date": "2026-04-05", "utilization_percent": 76.4}, {"date": "2026-04-06", "utilization_percent": 76.4}, {"date": "2026-04-07", "utilization_percent": 46.4}, {"date": "2026-04-08", "utilization_percent": 43.3}]};
                 console.log('Data received:', Object.keys(capacityHistoryByMember), 'members with data');
 
                 // Build datasets for each team member
